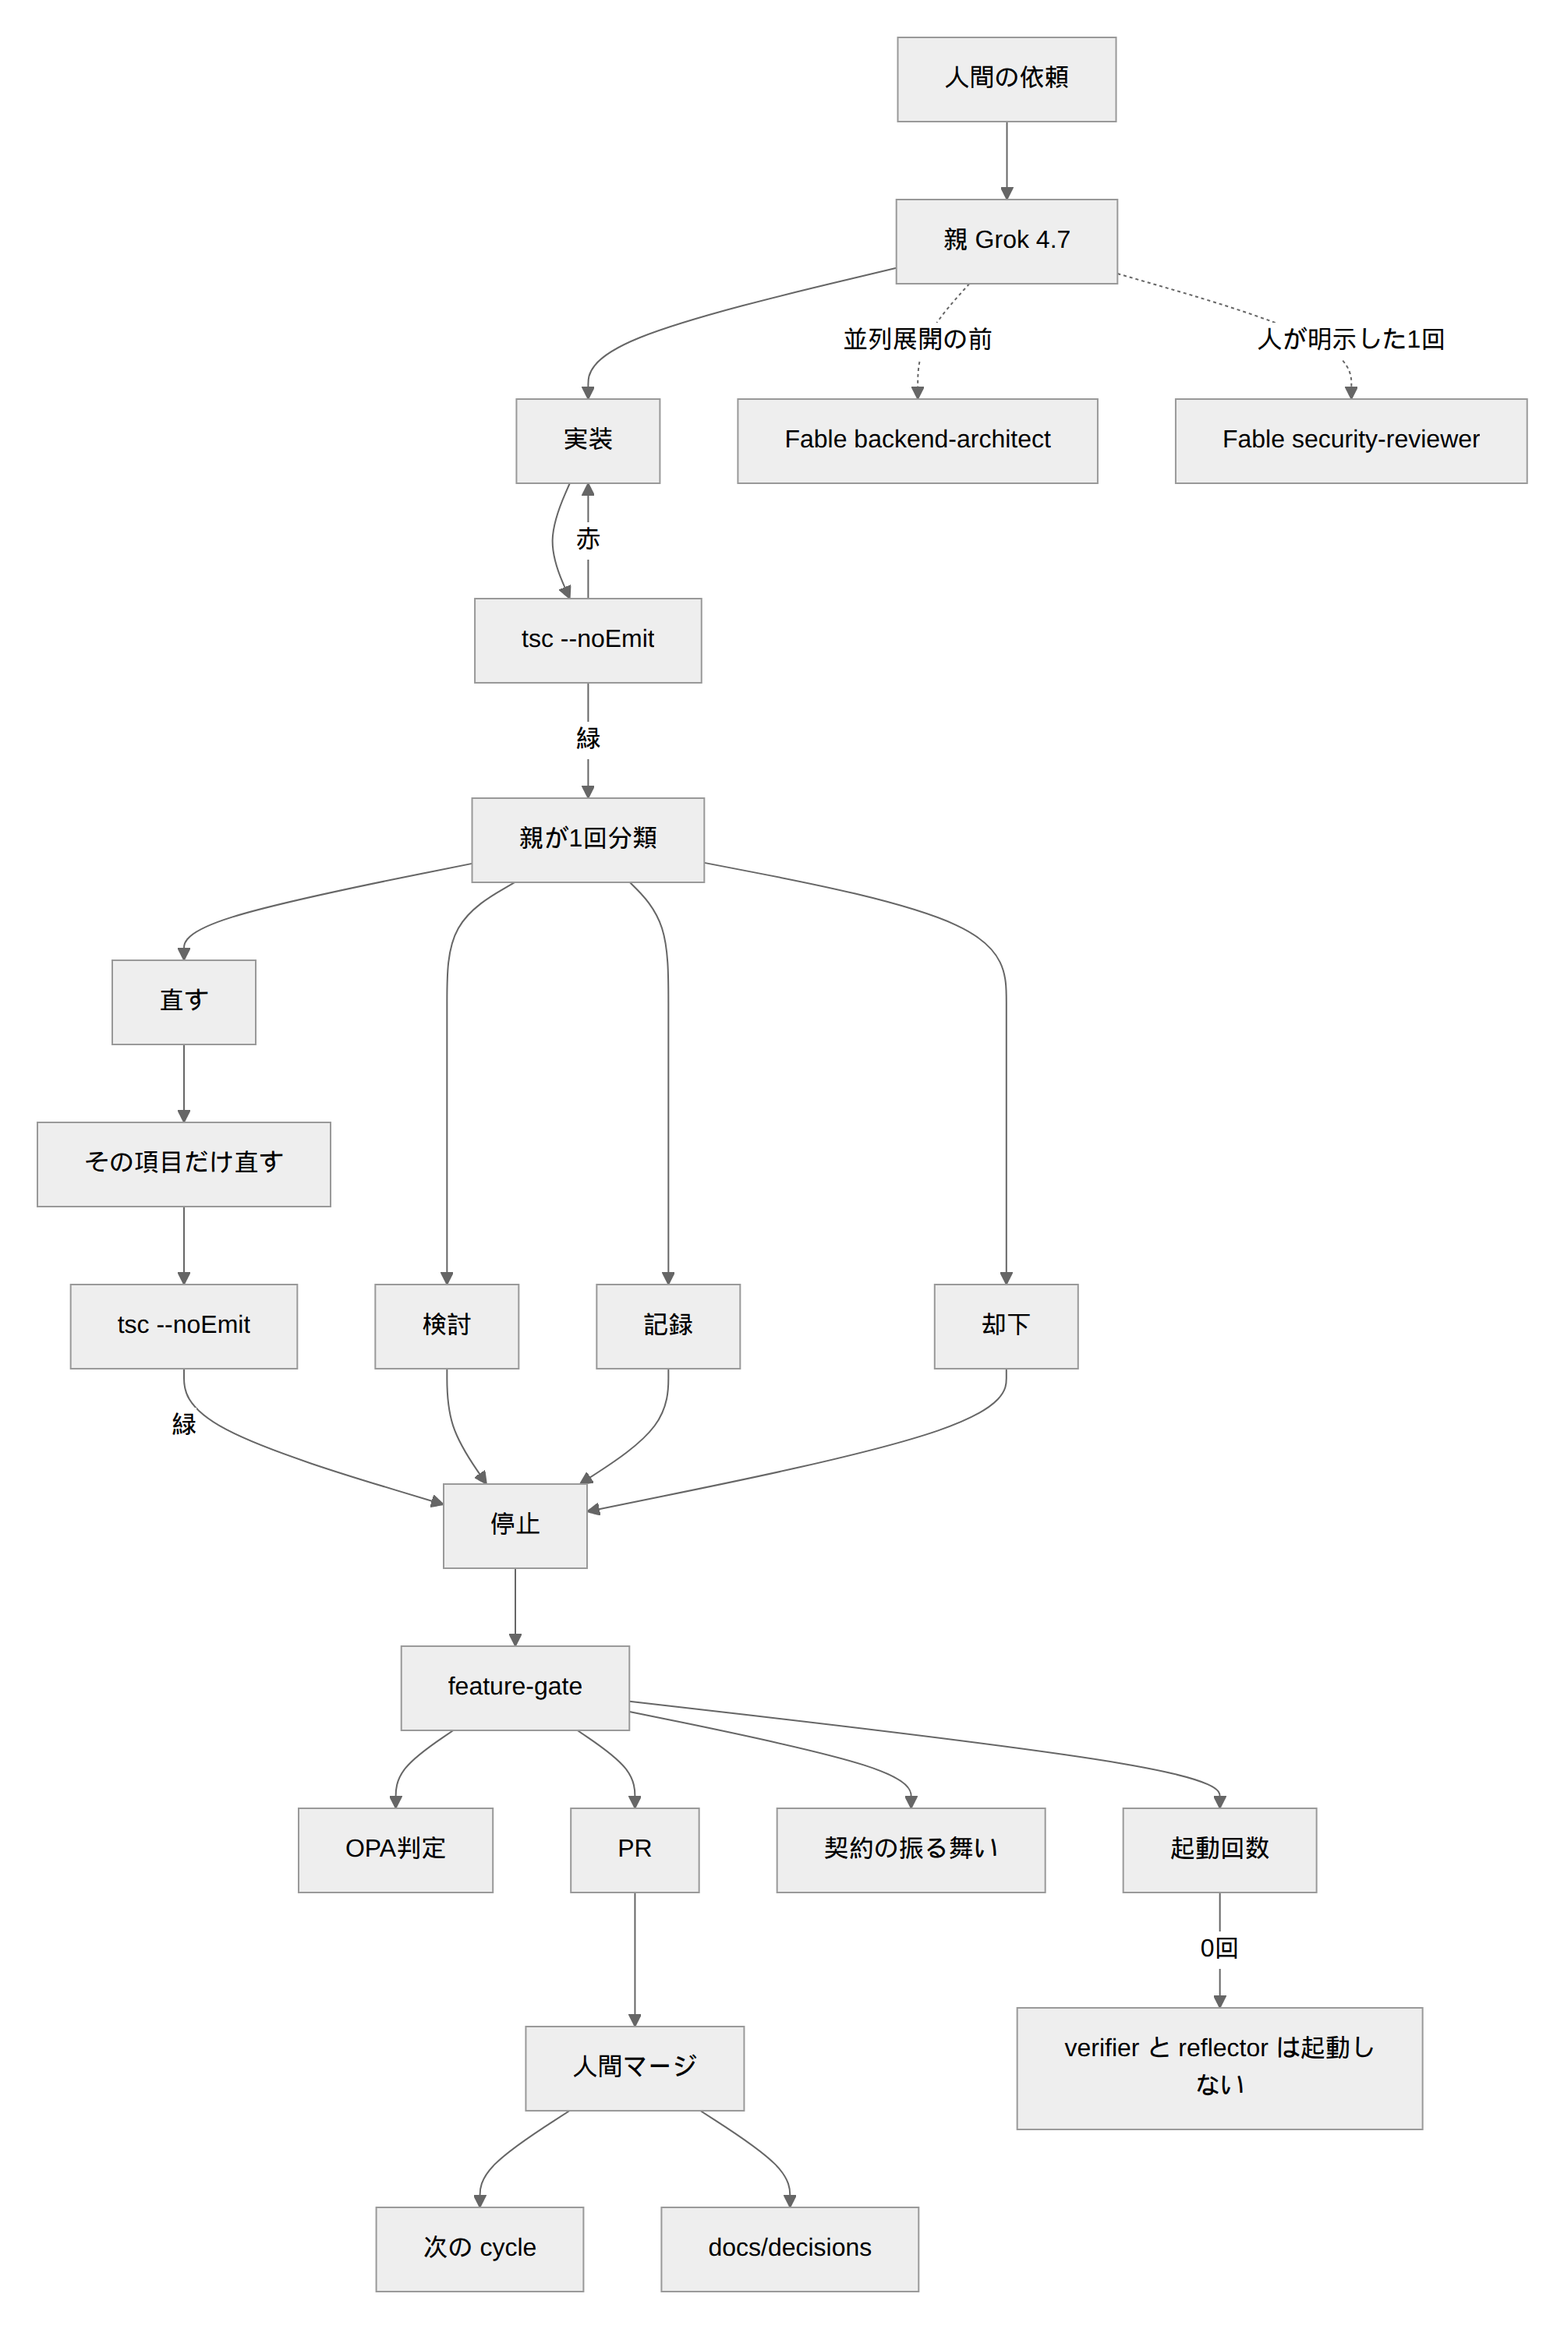
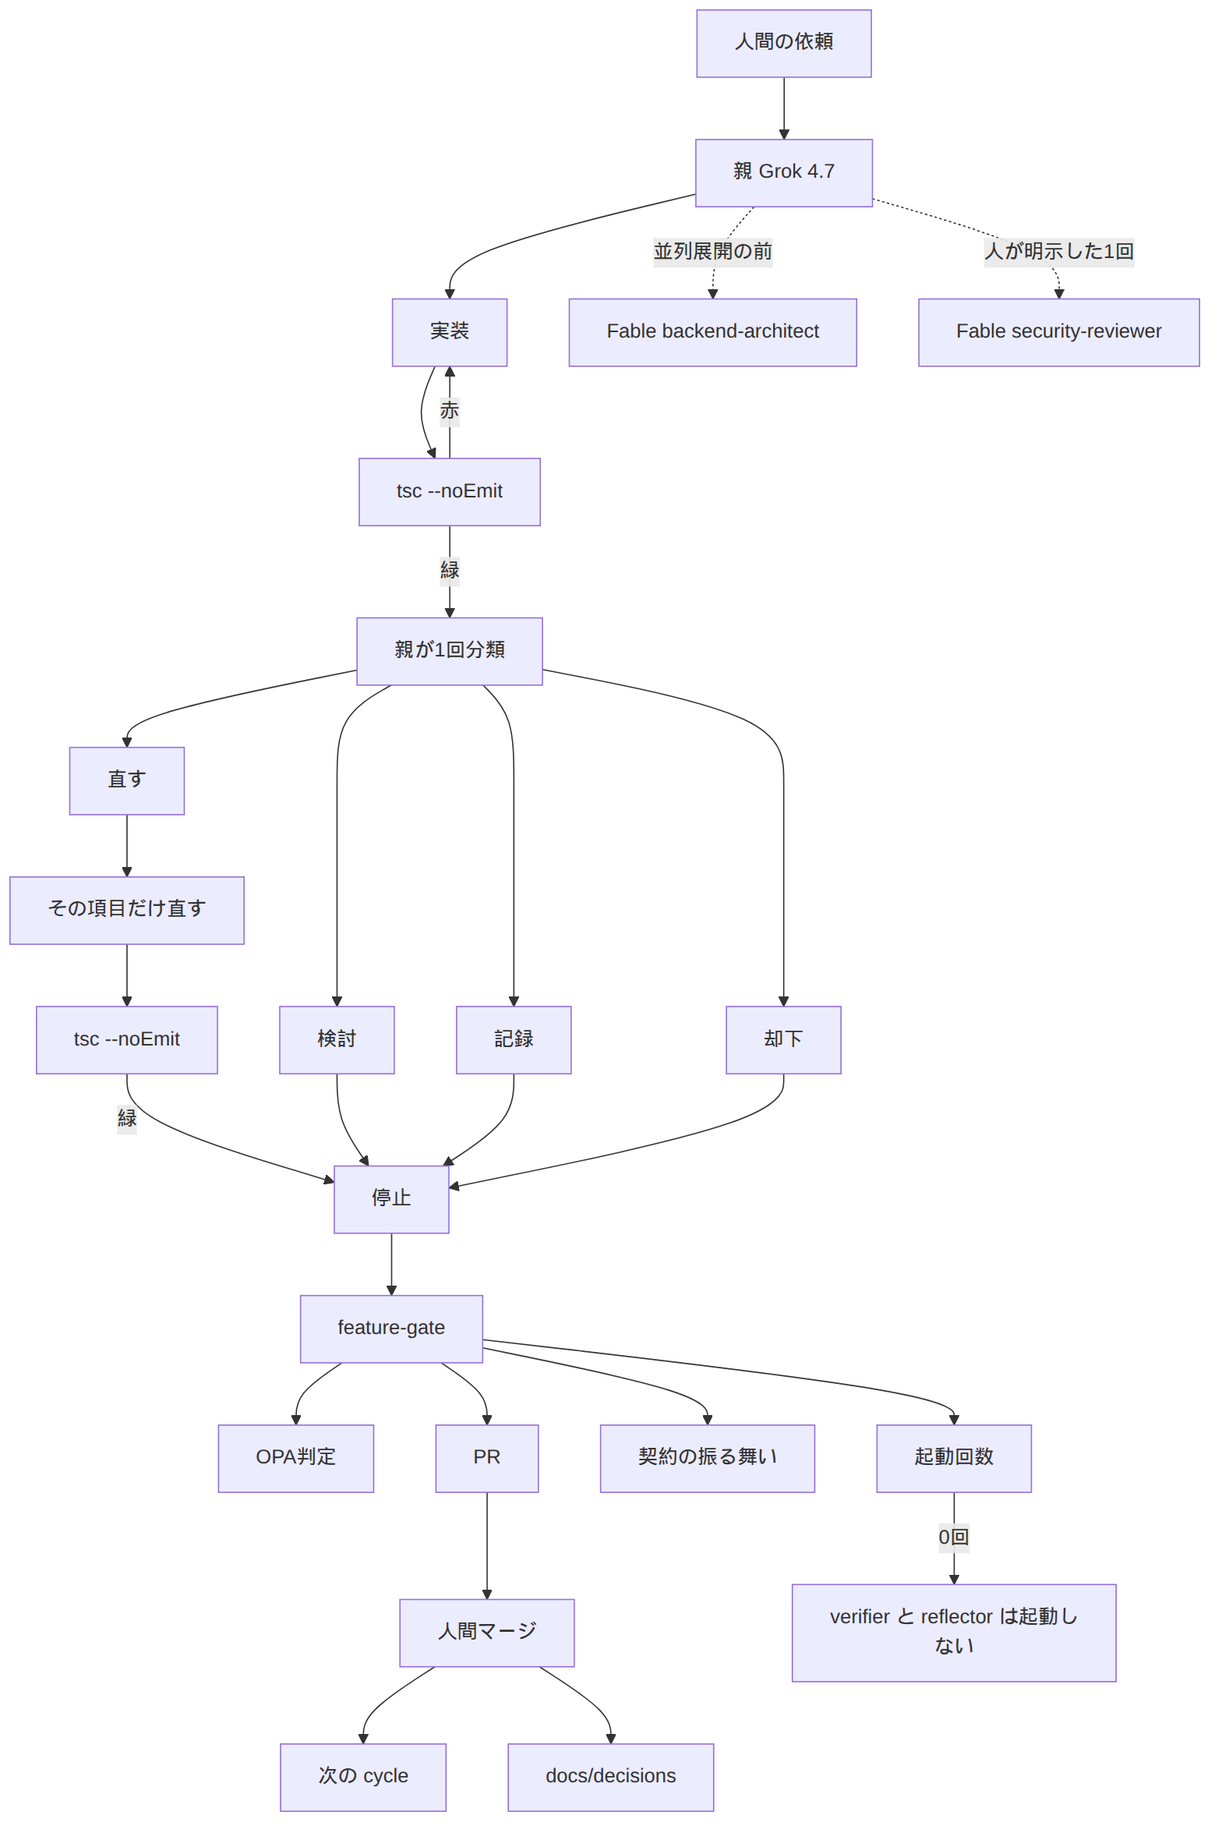
docs: README の図と完了の定義をゲートに合わせる

diff --git a/README.md b/README.md
@@ -26,14 +26,14 @@ Cursor ハーネスの**テンプレート**。対象は席・正本・ゲート
 Cursor のクラウドでリポを開く。このリポジトリの clone 後は `pnpm install`（hooks も入る）。プロダクトの始め方は [TEMPLATE.md](TEMPLATE.md) の「プロダクトを始める」。機能ごとに ADR は起票しない。
 
 空リポへ載せる手順は [TEMPLATE.md](TEMPLATE.md)。
-前進の確認はクラウドまたは Actions 上で `node scripts/feature-gate.mjs`（[ADR 0016](docs/decisions/0016-definition-of-done.md)）。ハーネスにテストがある変更は `pnpm test`。
+完了はクラウドまたは Actions 上で `node scripts/feature-gate.mjs` が緑であること。ハーネスにテストがある変更は `pnpm test` が緑であること（[ADR 0016](docs/decisions/0016-definition-of-done.md)）。
 
 ## アーキテクチャ
 
 このハーネスは席・ゲート・cycle で回る。入力は人間の依頼と `features/<slug>/` の振る舞い、
 実行は席、token効率化は code-mode と packet、品質ゲートは hooks / OPA / feature-gate、
 成果は振る舞いのテストと `docs/decisions/` と policy、フィードバックは次の cycle である。
-監査の主体は親 Grok 4.7 high である。Uber の Gateway や艦隊は置かない。OPA は canon 変更のゲートであり、自己改善ループそのものではない。
+監査の主体は親 Grok 4.7 high である。Uber の Gateway や艦隊は置かない。feature-gate は OPA の検査と契約とレビュー上限を実行する。canon の一覧は opa test が検査し、差分の被覆には使わない。正本へは書かない。
 
 図は [`docs/architecture/`](docs/architecture/) のアーキテクチャ図。実線は実行、破線は条件付きか判定のみ。編集する正は下記 mermaid。
 
@@ -77,7 +77,7 @@ flowchart TB
 
 受付 → 親が計画と実装 → 契約と feature-gate → 公開。
 必須の辺は無い。検証用の subagent は出さない。
-OPA / feature-gate は横の判定であり、正本へは書かない。正本へ入るのは人間マージだけ。
+feature-gate は判定であり、正本へは書かない。正本へ入るのは人間マージだけ。
 
 ![監査](docs/architecture/audit-overview.png)
 
@@ -100,7 +100,6 @@ flowchart TB
 
   subgraph qa["品質ゲート"]
     HK["hooks / commit-msg"]
-    FG["feature-gate / OPA"]
   end
 
   subgraph warehouse["正本"]
@@ -122,7 +121,6 @@ flowchart TB
   PK --> IM
   IM --> HK
   IM --> CT
-  CT --> FG
   P --> PR
   PR --> HM
   HM --> warehouse
@@ -131,7 +129,8 @@ flowchart TB
 ### ランタイム
 
 席と強制の層。子へ渡すのは packet だけ。会話履歴と `docs/learnings.md` の全文は継がない。
-hooks を踏むのは実装 Grok の commit。OPA は判定であり正本へは書かない。
+hooks を踏むのは実装の commit。feature-gate は判定であり正本へは書かない。
+`packet.canon` の deny は `cycle-record` が dispatch を書くときに評価する。
 
 ![ランタイム](docs/architecture/runtime-overview.png)
 
@@ -141,6 +140,7 @@ flowchart LR
     direction TB
     G["親 Grok 4.7"]
     IMP["実装と検証は親"]
+    Rec["cycle-record"]
     BA["Fable は条件付き"]
     OFF["verifier と reflector は起動しない"]
   end
@@ -162,7 +162,9 @@ flowchart LR
   G --> IMP
   IMP --> Hook
   IMP --> Gate
-  Gate -.->|"判定のみ"| Packet
+  Gate -.->|"判定のみ"| Policy
+  G --> Rec
+  Rec --> Packet["packet.canon deny"]
   HM["人間マージ"] --> Beh
   HM --> Docs
   HM --> Policy

diff --git a/docs/decisions/0016-definition-of-done.md b/docs/decisions/0016-definition-of-done.md
@@ -1,20 +1,19 @@
 # ADR 0016: 完了の定義
 
-- 状態: 受理（改正: [[0037]] [[0038]] [[0039]] [[0041]] [[0042]] [[0046]] [[0047]] [[0049]]）
-- 改正注記: 高リスク trio 体1は [[0047]] で Fable 5.1。体2の世代は [[0049]] で Grok 4.7 high。決定本文の 3体列挙は履歴。trio の構成（Fable / Grok / Muse）は変えない。
+- 状態: 受理（改正: [[0037]] [[0038]] [[0039]] [[0041]] [[0042]] [[0046]] [[0047]] [[0049]] [[0051]]）
+- 改正注記: 完了は `node scripts/feature-gate.mjs` と、ハーネスにテストがある変更の `pnpm test`。Feature の被覆はしない。3体レビューはしない。内省は `docs/learnings.md`。cycle の記録は `cycle/events.jsonl`。品質の例外は `cycle/code-quality.yaml`。
 - 日付: 2026-07-04
-- 背景: 自己成長ループの「検証」段が何を満たせば前進可能かを機械的に定義する（`criteria/code-quality.yaml`）。
+- 背景: 自己成長ループの「検証」段が何を満たせば前進可能かを機械的に定義する（`cycle/code-quality.yaml`）。
 - 決定: あるタスクが **完了** とみなせるのは全て満たす時:
-  1. **`node scripts/feature-gate.mjs` が緑**（opa test + cycle 指標テスト + 被覆 Feature の apply allow）。
+  1. **`node scripts/feature-gate.mjs` が緑**（OPA の検査、契約、レビュー上限）。
   2. ハーネスにテストがある変更は `pnpm test` が緑。
   3. **挙動変更タスクは TDD 赤の証跡**（`node --test` の失敗ログ）があること。
-     例外は `criteria/code-quality.yaml` の `tdd_exceptions` を人間が明示した場合のみ（[[0013]]）。
+     例外は `cycle/code-quality.yaml` の `tdd_exceptions` を人間が明示した場合のみ（[[0013]]）。
   4. 秘密スキャン通過（`PUBLIC_`以外の鍵がクライアント/コミットに無い）。
-  5. **独立敵対レビュー通過**（実装と別 agent・新しい文脈・「壊せ」視点）。
-     高リスクは Opus 5 / Grok / Muse Spark 1.3 medium の3体多数決（[[0046]]）。自己レビューは前進段を満たさない（[[0031]] / [[0037]]）。
+  5. **品質の指摘は親が1回、直す・検討・記録・却下に分ける。** コードを変えるのは直すだけ。`tsc --noEmit` が緑なら止める。人が明示したレビューは Fable 1回まで。verifier と reflector は起動しない（[[0050]] [[0051]]）。
   6. **並列展開する場合は plan-confirm 承認証跡**が計画ファイルにあること（[[0033]]）。
-  7. **`knowledge/learnings.md` に内省を追記**し、判断に触れた場合は Feature 正本を起票（[[0038]]）。
-  8. **必須 skill の used/skipped を `knowledge/graph/events.jsonl` に記録**（[[0039]]）。
+  7. **内省は `docs/learnings.md` に追記する。** Feature 票は起票しない。機能の判断は `features/<slug>/design.md`。
+  8. **必須 skill の used/skipped を `cycle/events.jsonl` に記録**（[[0039]]）。
   9. **commit は hook を必ず通し、主語は日本語 conventional**（[[0042]]）。`--no-verify` は不可。
 - 結果: 「動いたつもり」で前進しない。
 - 関連: [[0013-test-strategy]] [[0031]] [[0033]] [[0037]] [[0038]] [[0039]] [[0041]] [[0042]]
